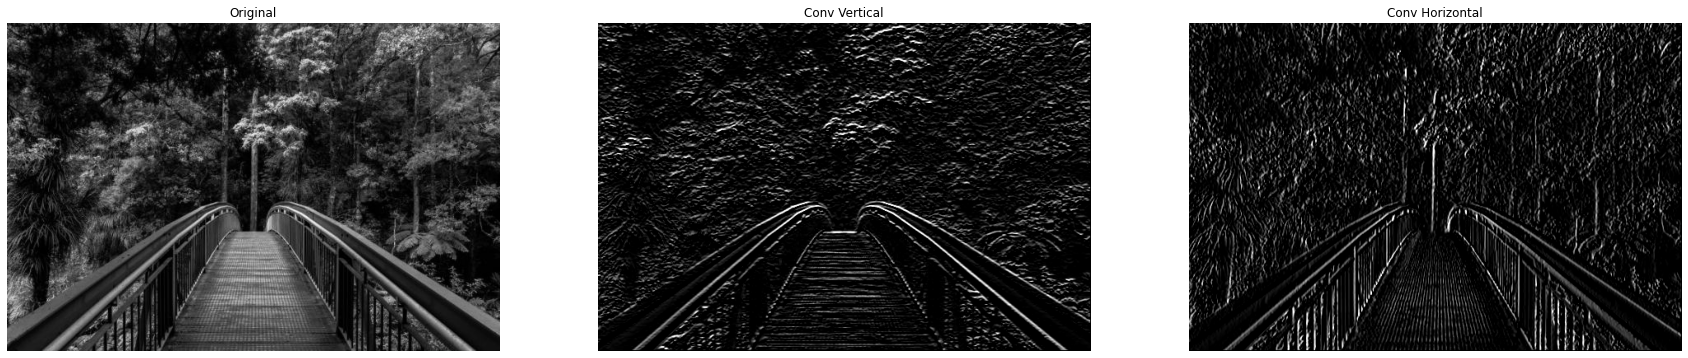
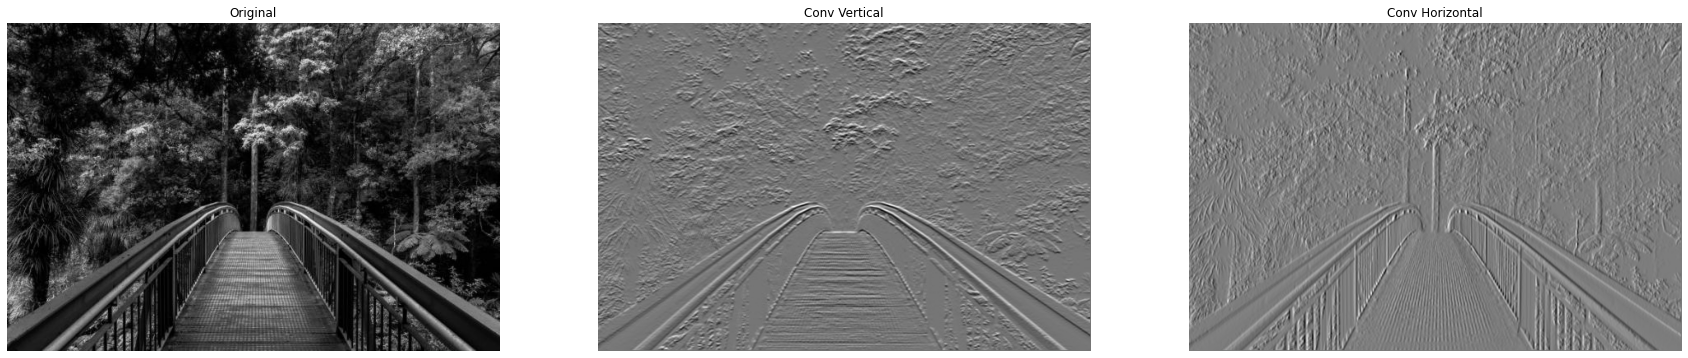
upload b9

diff --git a/assets/images/bai9/x.py b/assets/images/bai9/x.py
@@ -2,14 +2,33 @@ import cv2
 import numpy as np
 import matplotlib.pyplot as plt
 
-image = cv2.imread('test.png')
+def scale_to_0_255(img):
+    min_val = np.min(img)
+    max_val = np.max(img)
+    new_img = (img - min_val) / (max_val - min_val) # 0-1
+    new_img *= 255
+    return new_img
 
-small_k = cv2.medianBlur(image, 3)
-medium_k = cv2.medianBlur(image, 5)
-big_k = cv2.medianBlur(image, 7)
-plt.figure(figsize=(16, 5))
-plt.subplot(151),plt.imshow(image),plt.title('Origin Image'),plt.axis(False)
-plt.subplot(152),plt.imshow(small_k),plt.title('k = 3'),plt.axis(False)
-plt.subplot(153),plt.imshow(medium_k),plt.title('k = 5'),plt.axis(False)
-plt.subplot(154),plt.imshow(big_k),plt.title('k = 7'),plt.axis(False)
-plt.show()
+def my_canny(img, min_val, max_val, sobel_size=3, is_L2_gradient=False):
+    """
+    Try to implement Canny algorithm in OpenCV tutorial @ https://docs.opencv.org/master/da/d22/tutorial_py_canny.html
+    """
+    
+    #2. Noise Reduction
+    smooth_img = cv2.GaussianBlur(img, ksize=(5, 5), sigmaX=1, sigmaY=1)
+    
+    #3. Finding Intensity Gradient of the Image
+    Gx = cv2.Sobel(smooth_img, cv2.CV_64F, 1, 0, ksize=sobel_size)
+    Gy = cv2.Sobel(smooth_img, cv2.CV_64F, 0, 1, ksize=sobel_size)
+        
+    if is_L2_gradient:
+        edge_gradient = np.sqrt(Gx*Gx + Gy*Gy)
+    else:
+        edge_gradient = np.abs(Gx) + np.abs(Gy)
+    
+    angle = np.arctan2(Gy, Gx) * 180 / np.pi
+    return angle
+
+img = cv2.imread('ronaldo.jpg',0)
+my_canny = my_canny(img, min_val=100, max_val=200)
+print(my_canny)
